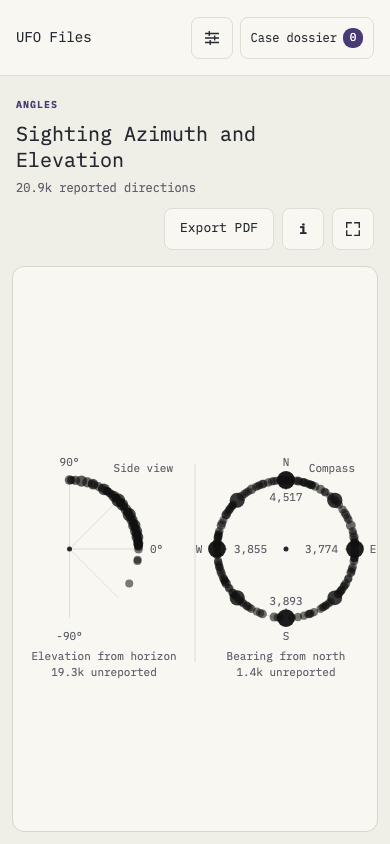
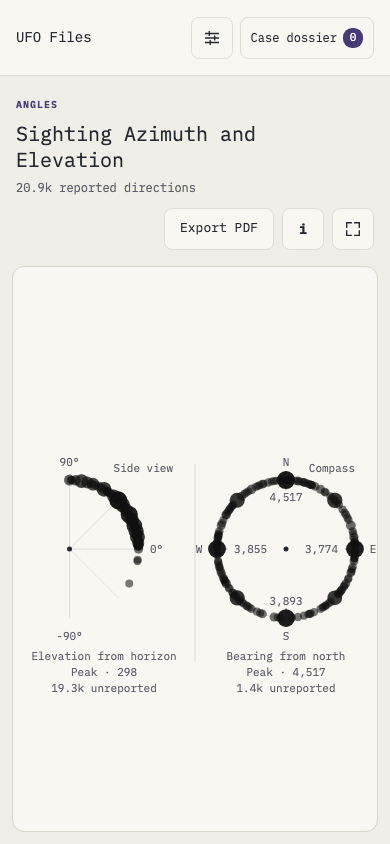
Scale elevation and bearing against their own filtered peaks

diff --git a/app.js b/app.js
@@ -4889,13 +4889,13 @@ function renderSightingAngles() {
     // Paint the smaller groups last so a busy direction cannot hide its neighbors.
     return { axis, unreported, groups: [...groups.values()].sort((a, b) => b.entries.length - a.entries.length) };
   });
-  const peakCount = Math.max(1, ...panels.map(panel => panel.groups[0]?.entries.length || 0));
   // A logarithmic count scale lets tens and hundreds remain distinguishable alongside thousands.
   const countScale = count => Math.log1p((count - 1) / 10);
-  const peakScale = countScale(peakCount) || 1;
   const minRadius = 4;
   const maxRadius = Math.min(17, Math.max(9, radius * 0.11));
   for (const { axis, groups, unreported } of panels) {
+    const peakCount = groups[0]?.entries.length || 1;
+    const peakScale = countScale(peakCount) || 1;
     const side = axis === "elevation";
     const center = panelWidth * (side ? 0.5 : 1.5);
     const cx = side ? center - radius / 2 : center;
@@ -4960,13 +4960,14 @@ function renderSightingAngles() {
       }
     }
     labelAt(panel, center, cy + radius + 42, side ? "Elevation from horizon" : "Bearing from north");
-    if (unreported) labelAt(panel, center, cy + radius + 58, `${formatNumber(unreported)} unreported`);
+    if (groups.length) labelAt(panel, center, cy + radius + 58, `Peak · ${peakCount.toLocaleString("en-US")}`);
+    if (unreported) labelAt(panel, center, cy + radius + (groups.length ? 74 : 58), `${formatNumber(unreported)} unreported`);
   }
   const summary = blueBook
     ? `${formatNumber(documents.length)} reported directions · ${formatNumber(new Set(documents.map(row => row.documentId)).size)} Project Blue Book case-file transcripts`
     : `${formatNumber(documents.length)} reported directions`;
   $("#graphSubtitle").textContent = summary;
-  $("#legend").textContent = `Node size + shade show count (log scale) · ● Reported sighting${blueBook ? "" : "   ◆ Field camera pointing"}`;
+  $("#legend").textContent = `Node size + shade show count relative to each chart’s peak (log scale) · ● Reported sighting${blueBook ? "" : "   ◆ Field camera pointing"}`;
   setSummary(summary, "angles");
   if (!rows.length) labelAt(svg, width / 2, cy + radius + 52, "No recorded angles for this selection");
 }

diff --git a/tests/test_app.js b/tests/test_app.js
@@ -5324,7 +5324,7 @@ test("Signals merges matching measured and cited frequencies and counts a record
   assert.deepEqual(Array.from(result),[1,45,3,1]);
 });
 
-test("matching sighting counts render with identical marks on both axes", () => {
+test("sighting panels share marker styling and scale to their own peaks", () => {
   const svg = new FakeElement();
   const document = { createElementNS: () => new FakeElement(), querySelector: () => new FakeElement() };
   const context = vm.createContext({ document, location: { hash: "" }, URLSearchParams, svg });
@@ -5350,4 +5350,17 @@ test("matching sighting counts render with identical marks on both axes", () => 
   assert.deepEqual(styles[0], styles[1]);
   assert.ok(Number(styles[0][0][0]) > Number(styles[0][1][0]));
   assert.equal(Number(styles[0][1][0]), 4);
+
+  // Changing only the azimuth distribution must leave elevation sizes unchanged.
+  svg.replaceChildren();
+  vm.runInContext(`
+    state.catalog.sightingAngles.observations[2].azimuth = 10;
+    renderSightingAngles();
+  `, context);
+  const updated = svg.children.filter(node => node.attributes.role === "group");
+  const radii = updated.map(panel => panel.children.filter(node => node.attributes.role === "button")
+    .map(node => node.attributes.r));
+  assert.deepEqual(radii[0], styles[0].map(style => style[0]));
+  assert.equal(radii[0][0], radii[1][0]);
+  assert.equal(radii[1].length, 2);
 });
